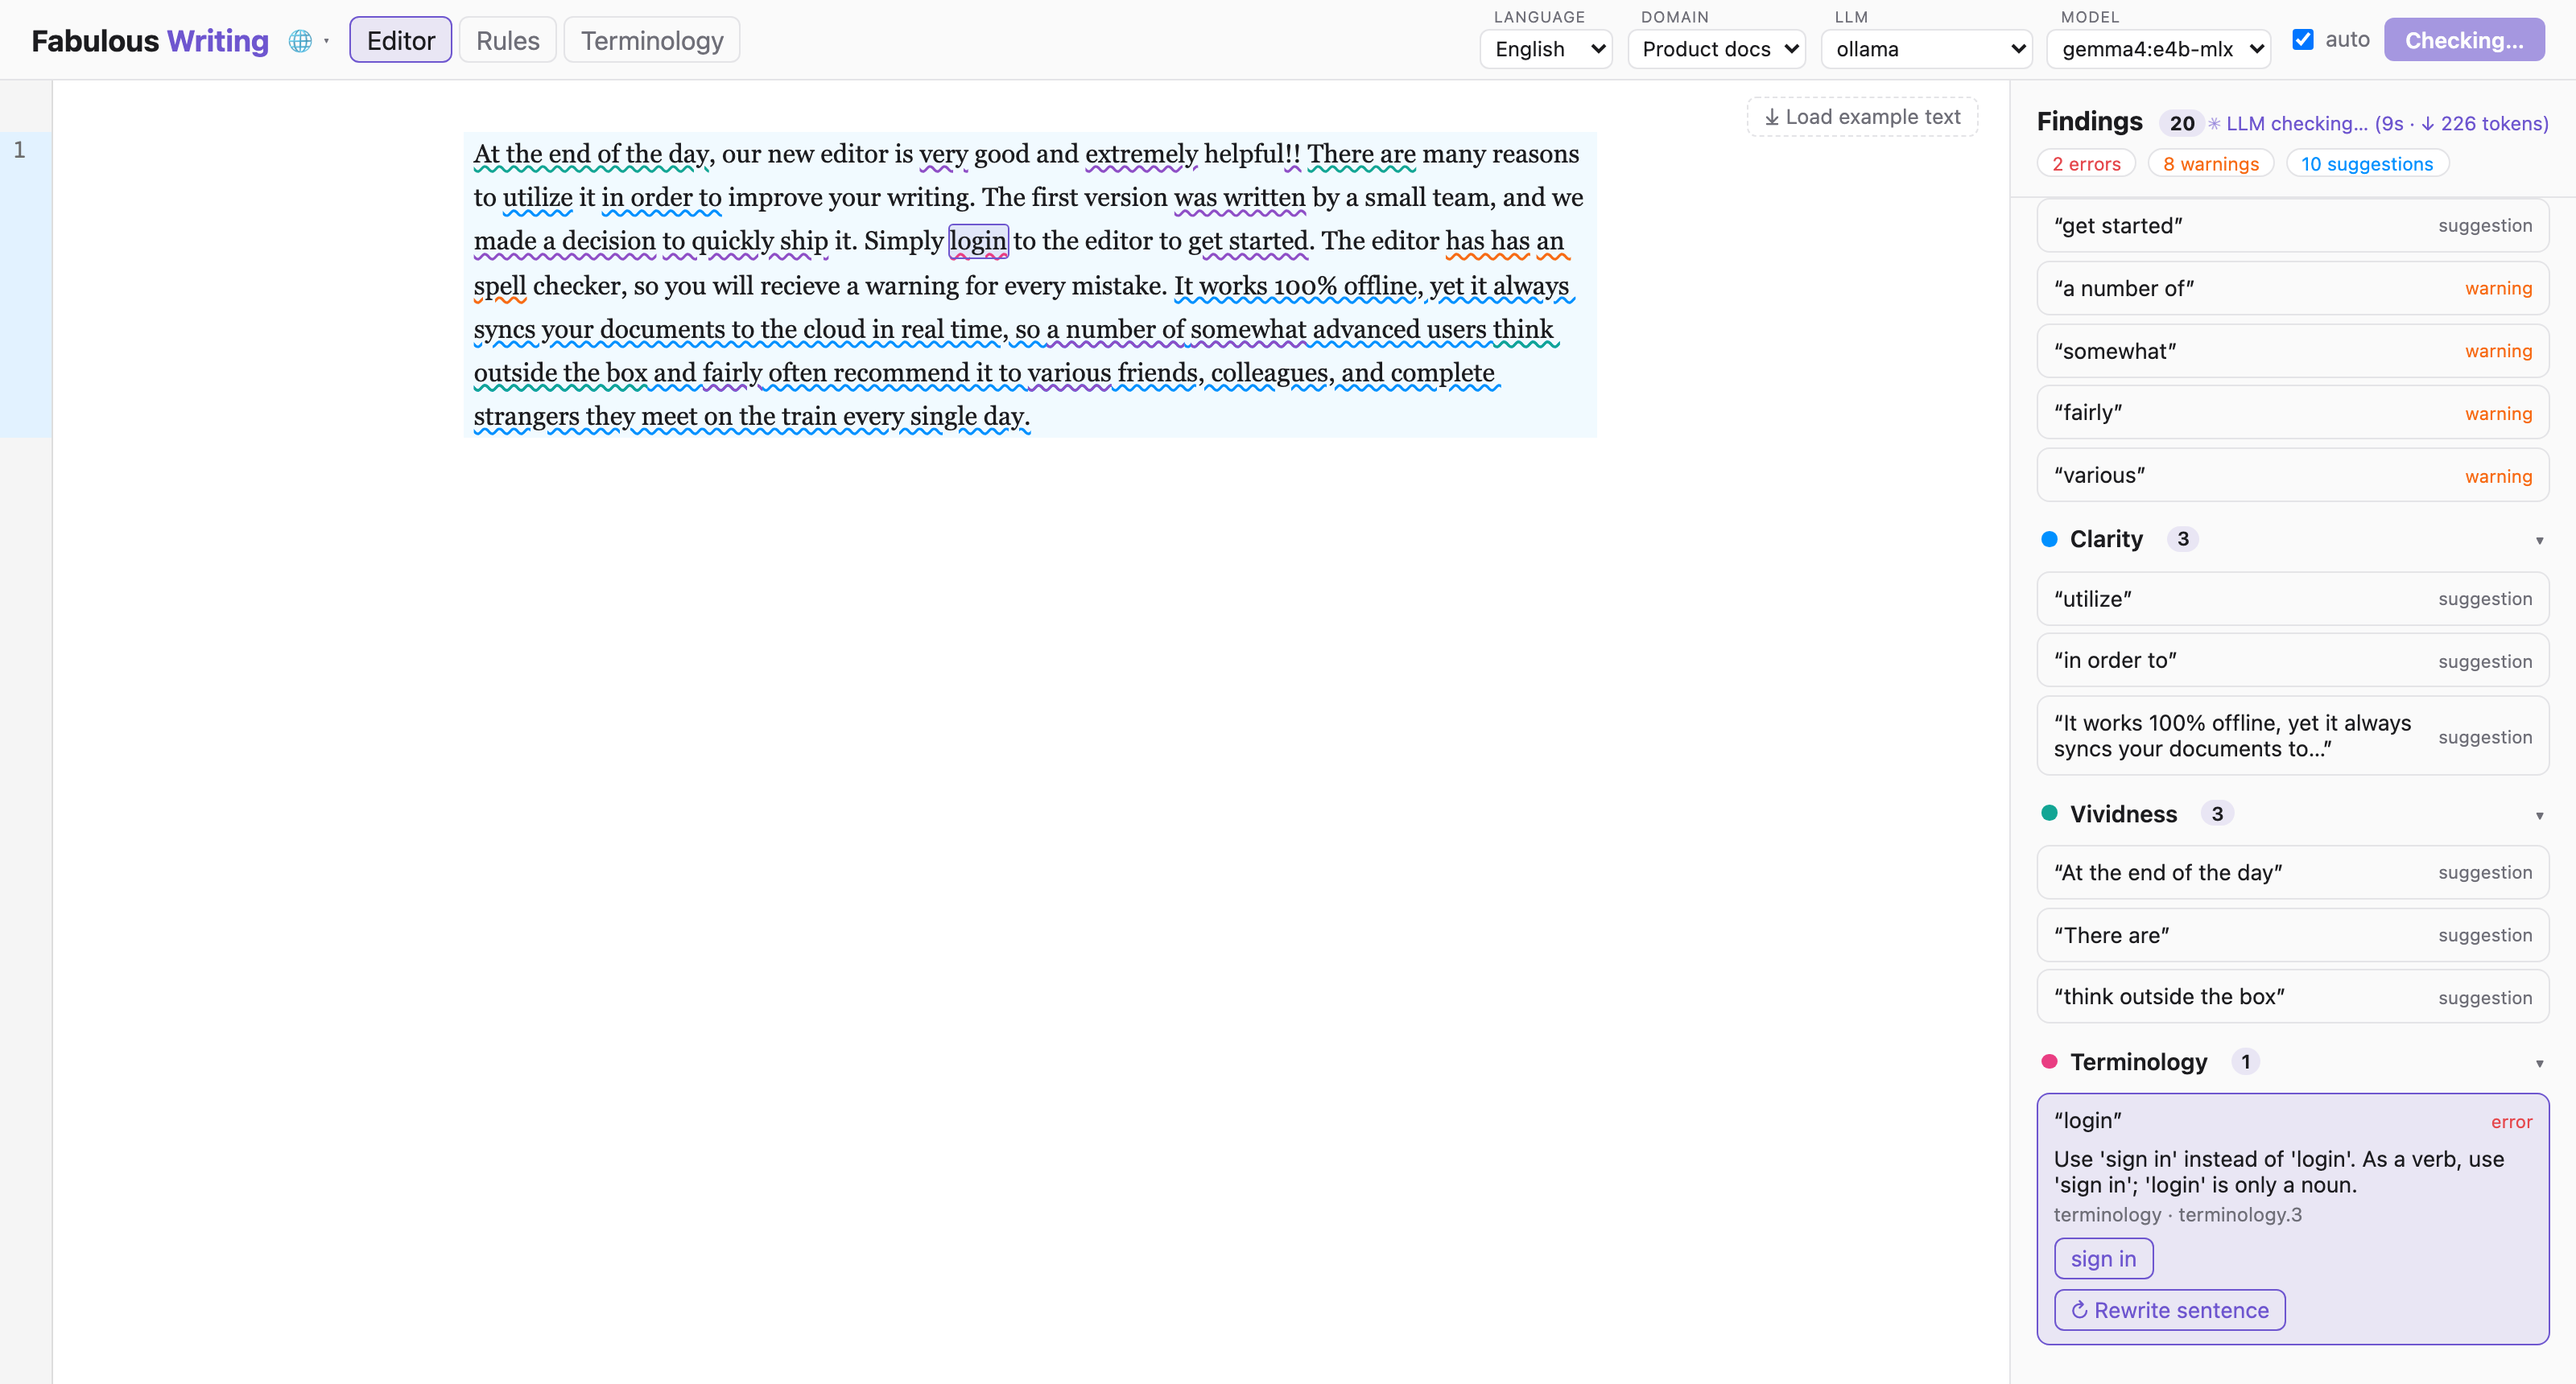
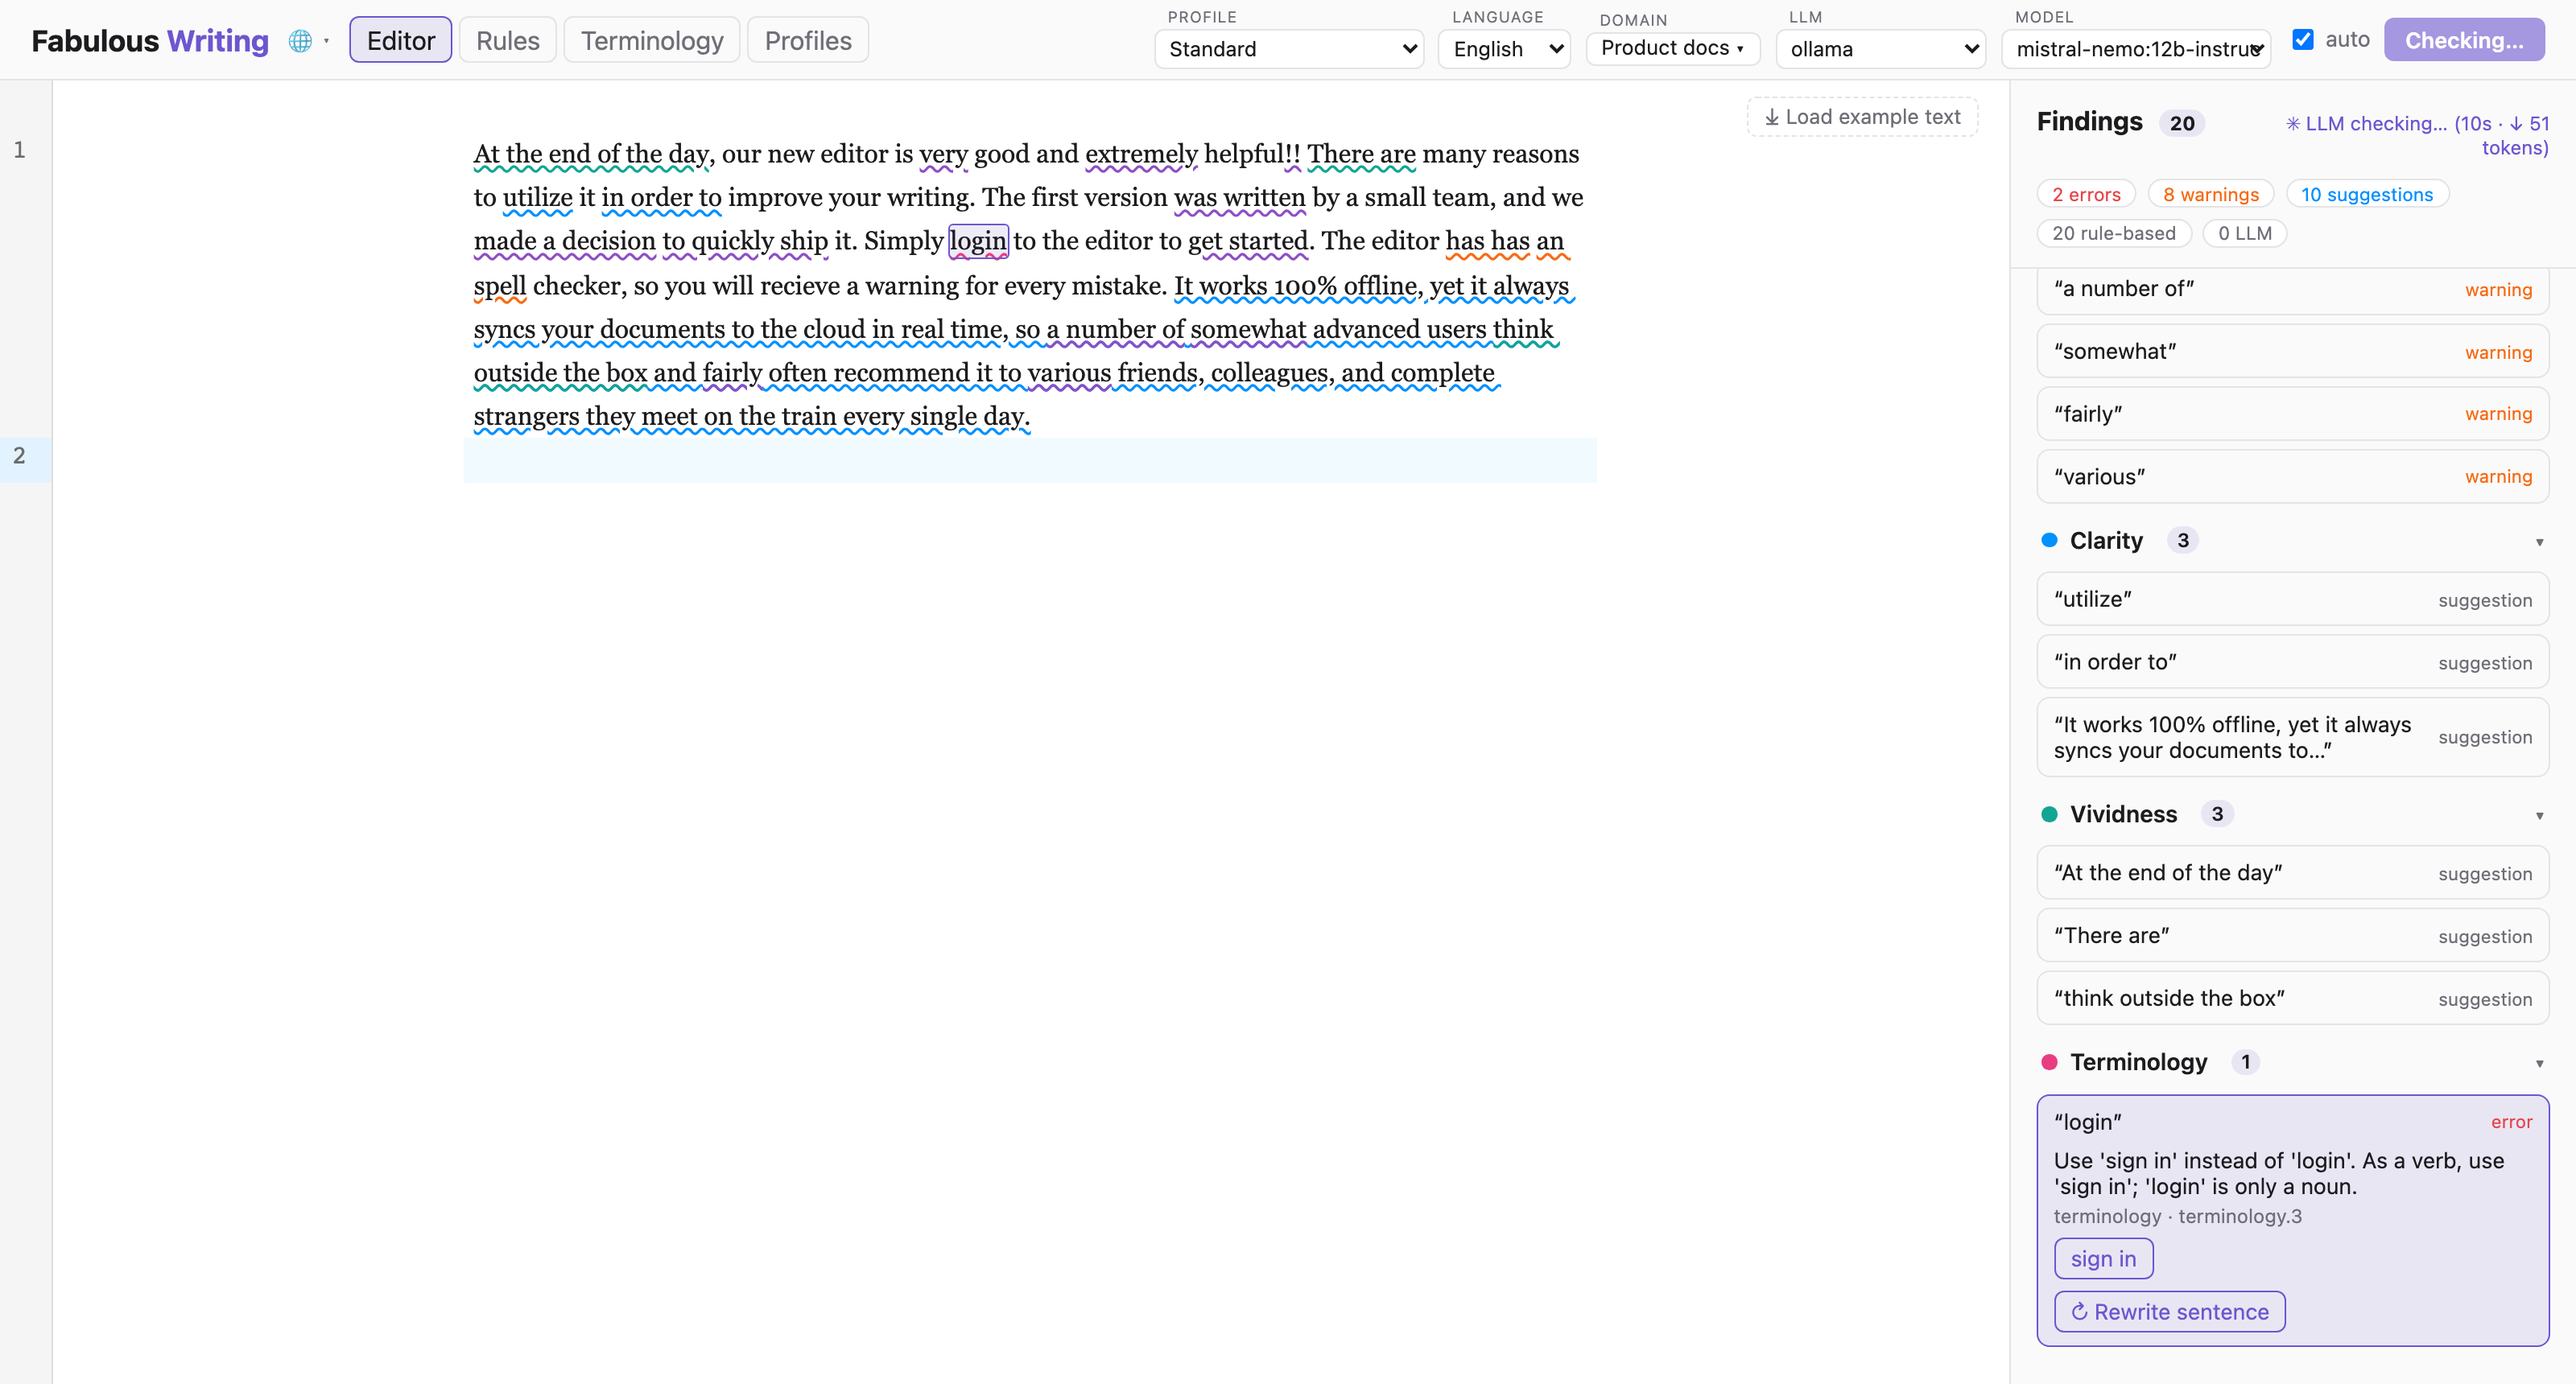
docs: refresh README screenshots and document checking profiles
All four screenshots regenerated against the current UI (profile
selector in the header, source-filter chips, per-profile rule toggles).
New "Checking profiles" section with a Profiles-tab screenshot; the
editor and rules sections now describe the per-profile example text and
rule editing; config highlights and config.example.yaml document
seed_example_profiles. The capture script selects and persists the
demo domain into the EN Standard profile (idempotent) and captures the
new profiles view.

diff --git a/README.md b/README.md
@@ -17,9 +17,9 @@ Write or paste your text into the editor, pick the text's language, and findings
 in the sidebar as you type: rule and terminology checks run about a second after you
 pause, the LLM check after a longer pause (the **auto** toggle) or on demand via
 **Check**. Click a finding to highlight it in the text and see the explanation; apply a
-suggested fix with one click. The **⤓ Example** button in the editor's corner loads a
-deliberately flawed demo text for the selected language — the quickest way to see
-everything in action.
+suggested fix with one click. The **⤓ Example** button in the editor's corner loads
+the selected checking profile's example text — deliberately flawed material that
+matches the profile — the quickest way to see everything in action.
 
 ![The editor with categorized findings in the sidebar; the selected terminology finding is highlighted in the text and offers a one-click fix](docs/images/editor.png)
 
@@ -40,14 +40,40 @@ highlighted in the text, with explanation and one-click fix.*
 
 Rules and terminology checks work entirely offline, without any LLM.
 
+### Checking profiles
+
+A **checking profile** bundles everything that defines *how* a text is checked, per
+language: which rules are active, which terminology domains apply, which LLM
+provider/model to use, extra LLM instructions (tone, audience, focus — appended to the
+built-in check prompt), and a fitting example text. Switch the profile in the header
+and the selectors follow; different kinds of writing get different checks — e.g.
+technical documentation with vividness rules off and precision-focused LLM guidance,
+marketing copy with benefit-led phrasing instructions.
+
+Every language has a non-deletable, editable **Standard** profile; English, German,
+and Japanese additionally seed deletable **Marketing** and **Technical Documentation**
+examples, so profile switching can be tried out of the box. Header selectors can
+always be overridden ad hoc: the profile then shows a ✱ marker with save (persist the
+override into the profile) and reset actions. The **Profiles** tab manages everything
+else; the **Rules** tab doubles as the selected profile's rule editor.
+
+![The Profiles tab with the seeded Standard and Marketing profiles: domains and example text on the left, LLM provider, model, and extra instructions on the right](docs/images/profiles.png)
+
+*The Profiles tab: one profile per row — domains and example text left, the LLM
+configuration right.*
+
 ### Rule catalog
 
 The **Rules** tab shows the live catalog for the selected language: every loaded rule
-with its category, severity, and message, plus any load errors.
+with its category, severity, and message, plus any load errors. Its checkboxes edit
+the selected checking profile: a category toggle switches a whole group, a per-rule
+switch overrides its category (a single rule can stay on inside a disabled category,
+or off inside an enabled one) — changes apply to the next check immediately.
 
-![The Rules tab listing the loaded rules for the selected language with category, severity, and message](docs/images/rules.png)
+![The Rules tab listing the loaded rules for the selected language with per-profile category and rule toggles](docs/images/rules.png)
 
-*The Rules tab: the live rule catalog for the selected language.*
+*The Rules tab: the live rule catalog, doubling as the selected profile's rule
+editor.*
 
 ### Terminology
 
@@ -128,6 +154,8 @@ All configuration is optional. Copy `backend/config.example.yaml` to
 - `providers.*` — default LLM provider, per-provider models/endpoints, Bedrock region
   and pinned model ids
 - `seed_terminology: false` — don't seed the example terminology domain
+- `seed_example_profiles: false` — don't seed the Marketing / Technical Documentation
+  example profiles (the per-language Standard profile is always created)
 - `vet_suggestions: false` — disable the deterministic vetting of LLM fixes
 - `nlp.models` — spaCy model per language (see below)
 
